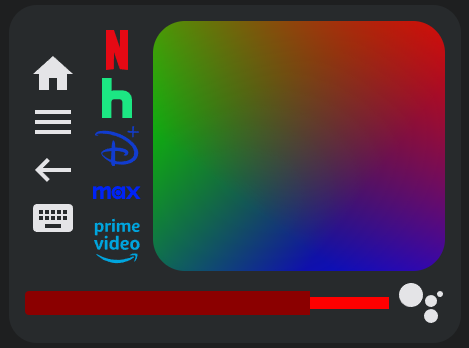
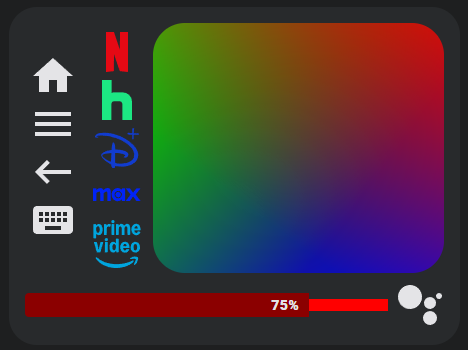
add label to more_disorder slider example

diff --git a/README.md b/README.md
@@ -928,7 +928,7 @@ custom_actions:
 
 ## Example 10
 
-Even more disorder with columns and special elements in the same row as buttons, and stylized everything.
+Even more disorder with columns and special elements in the same row as buttons, stylized everything, and a label to display the slider value.
 
 ```yaml
 type: custom:android-tv-card
@@ -1047,8 +1047,24 @@ custom_actions:
         --background: red;
         --thumb-border-radius: 0;
       }
+      .icon {
+        display: none;
+      }
+      .label {
+        {% if not states(config.entity, 'on') %}
+        display: none;
+        {% endif %}
+        transform: var(--icon-transform);
+        font-size: 14px;
+        font-weight: 1000;
+        color: var(--primary-text-color);
+      }
+      .tooltip {
+        display: none;
+      }
     autofill_entity_id: true
     haptics: true
+    label: '{{ (value * 100 ) | int }}%'
   - type: touchpad
     name: touchpad
     tap_action:
